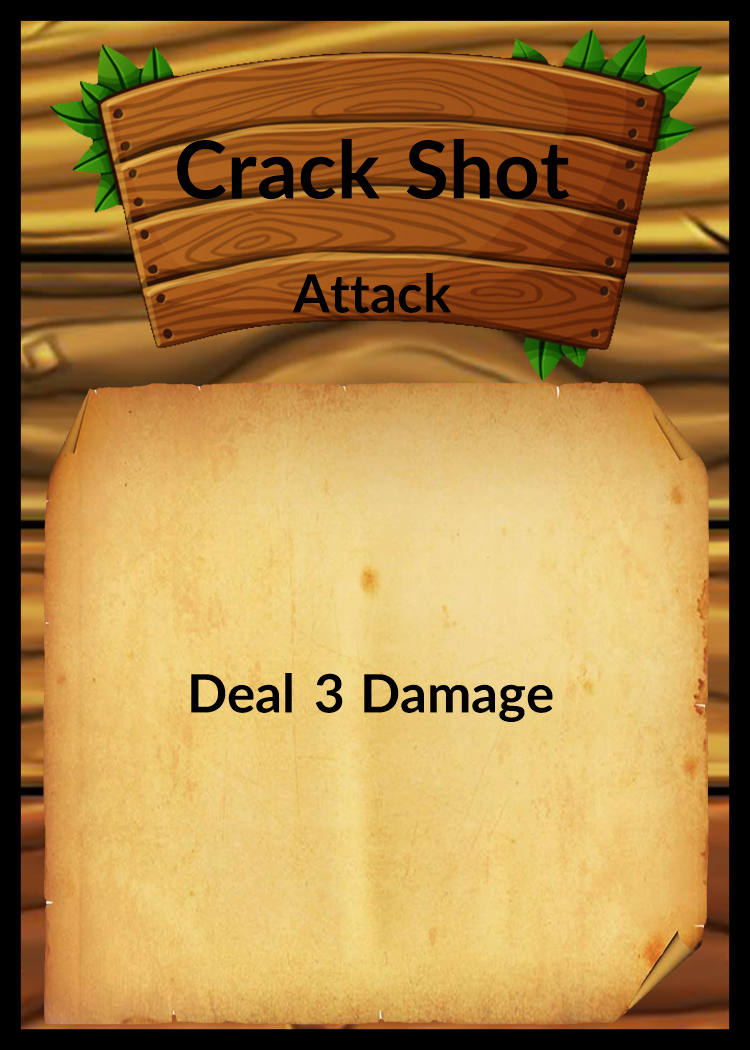
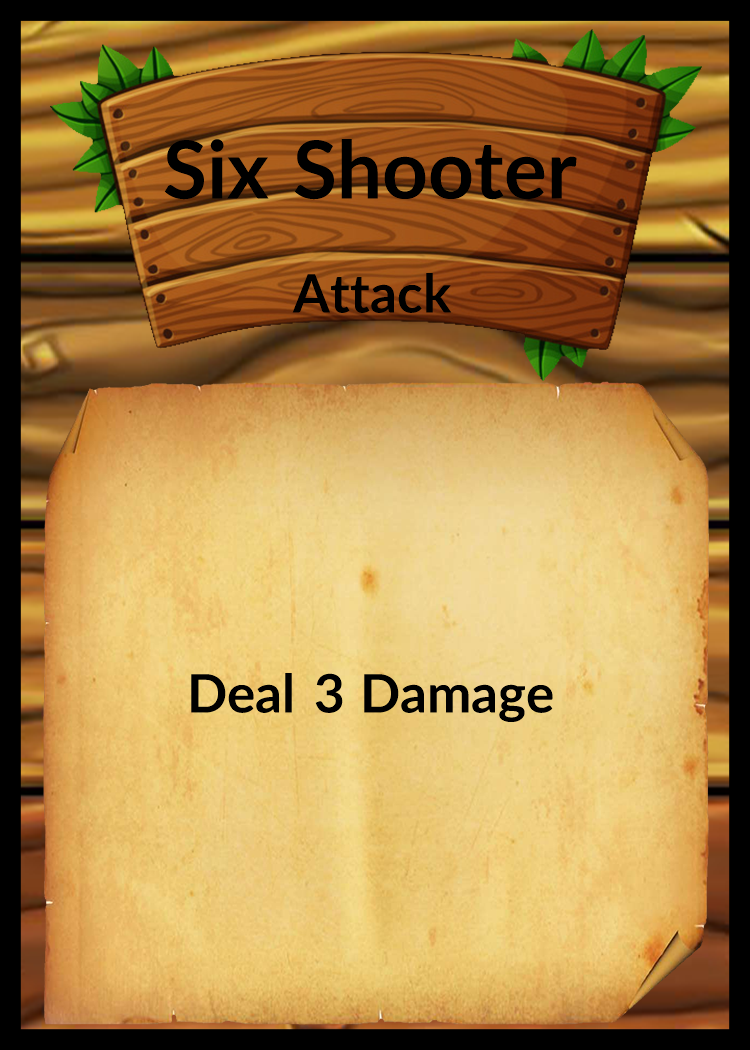
added crack shot

Changed region(s): [[0.2147, 0.1219, 0.7667, 0.2133]]

diff --git a/MonoDragons.GGJ/GGJ/Data/Cards.cs b/MonoDragons.GGJ/GGJ/Data/Cards.cs
@@ -13,7 +13,7 @@ namespace MonoDragons.GGJ.Data
             { CardName.None, s => new Card(s, "CowboyCard0") },
 
             { CardName.CowboyPass, s => new Card(s,"CowboyCard0") },
-            { CardName.CrackShot, s => new Card(s, "CowboyCard1") },
+            { CardName.SixShooter, s => new Card(s, "CowboyCard1") },
             { CardName.FanTheHammer, s => new Card(s, "CowboyCard2") },
             { CardName.GunsBlazing, s => new Card(s, "CowboyCard3") },
             { CardName.DuckAndCover, s => new Card(s, "CowboyCard4") },
@@ -25,6 +25,7 @@ namespace MonoDragons.GGJ.Data
             { CardName.Lasso, s => new Card(s, "CowboyCard10")  },
             { CardName.Ricochet, s => new Card(s, "CowboyCard11")  },
             { CardName.BothBarrels, s => new Card(s, "CowboyCard12")  },
+            { CardName.CrackShot, s => new Card(s, "CowboyCard13") },
 
             { CardName.HousePass, s => new Card(s, "SmartHouseCard0") },
             { CardName.ElectricShockSuperAttack, s => new Card(s, "SmartHouseCard1") },
@@ -37,7 +38,7 @@ namespace MonoDragons.GGJ.Data
             { CardName.None, CardType.Pass },
 
             { CardName.CowboyPass, CardType.Pass },
-            { CardName.CrackShot, CardType.Attack },
+            { CardName.SixShooter, CardType.Attack },
             { CardName.FanTheHammer, CardType.Attack },
             { CardName.GunsBlazing, CardType.Attack },
             { CardName.DuckAndCover, CardType.Defend },
@@ -49,6 +50,7 @@ namespace MonoDragons.GGJ.Data
             { CardName.Lasso, CardType.Counter },
             { CardName.Ricochet, CardType.Counter },
             { CardName.BothBarrels, CardType.Attack },
+            { CardName.CrackShot, CardType.Attack },
 
             { CardName.HousePass, CardType.Pass },
             { CardName.ElectricShockSuperAttack, CardType.Attack },
@@ -61,7 +63,7 @@ namespace MonoDragons.GGJ.Data
             { CardName.None, data => {} },
 
             { CardName.CowboyPass, data => {} },
-            { CardName.CrackShot, data => Event.Publish(new PlayerDamageProposed { Amount = 3, Target = Player.House }) },
+            { CardName.SixShooter, data => Event.Publish(new PlayerDamageProposed { Amount = 3, Target = Player.House }) },
             { CardName.FanTheHammer, data =>
                 {
                     Event.Publish(new PlayerDamageProposed { Amount = 4, Target = Player.House });
@@ -136,6 +138,12 @@ namespace MonoDragons.GGJ.Data
                     Event.Publish(new CounterEffectQueued { Caster = Player.Cowboy, Type = CardType.Attack,
                         Event = new PlayerDamageProposed { Target = Player.House, Amount = 2 }});
                 } },
+            { CardName.CrackShot, data =>
+                {
+                    Event.Publish(new PlayerDamageProposed { Target = Player.House, Amount = 2 });
+                    Event.Publish(new CounterEffectQueued { Caster = Player.Cowboy, Type = CardType.Charge,
+                        Event = new PlayerDamageProposed { Target = Player.House, Amount = 3 }});
+                } },
 
             { CardName.HousePass, data => {} },
             { CardName.ElectricShockSuperAttack, data => Event.Publish(new PlayerDamageProposed { Amount = 3, Target = Player.Cowboy }) },
@@ -160,7 +168,7 @@ namespace MonoDragons.GGJ.Data
         None = 0,
 
         CowboyPass = 1,
-        CrackShot = 2,
+        SixShooter = 2,
         FanTheHammer = 3,
         GunsBlazing = 4,
         DuckAndCover = 9,
@@ -172,6 +180,7 @@ namespace MonoDragons.GGJ.Data
         Lasso = 15,
         Ricochet = 16,
         BothBarrels = 17,
+        CrackShot = 18,
 
         HousePass = 5,
         ElectricShockSuperAttack = 6,

diff --git a/MonoDragons.GGJ/GGJ/Gameplay/LevelProgression.cs b/MonoDragons.GGJ/GGJ/Gameplay/LevelProgression.cs
@@ -22,7 +22,7 @@ namespace MonoDragons.GGJ.Gameplay
                 new CharacterState(Player.Cowboy, 10,
                     new PlayerCardsState(
                         CreateCard(CardName.CowboyPass),
-                        CreateCard(CardName.CrackShot),
+                        CreateCard(CardName.SixShooter),
                         CreateCard(CardName.FanTheHammer),
                         CreateCard(CardName.GunsBlazing),
                         CreateCard(CardName.ShowDown),
@@ -32,7 +32,8 @@ namespace MonoDragons.GGJ.Gameplay
                         CreateCard(CardName.QuickDraw),
                         CreateCard(CardName.Lasso),
                         CreateCard(CardName.Ricochet),
-                        CreateCard(CardName.BothBarrels))),
+                        CreateCard(CardName.BothBarrels),
+                        CreateCard(CardName.CrackShot))),
                 new CharacterState(Player.House, 10,
                     new PlayerCardsState(
                         CreateCard(CardName.HousePass),
